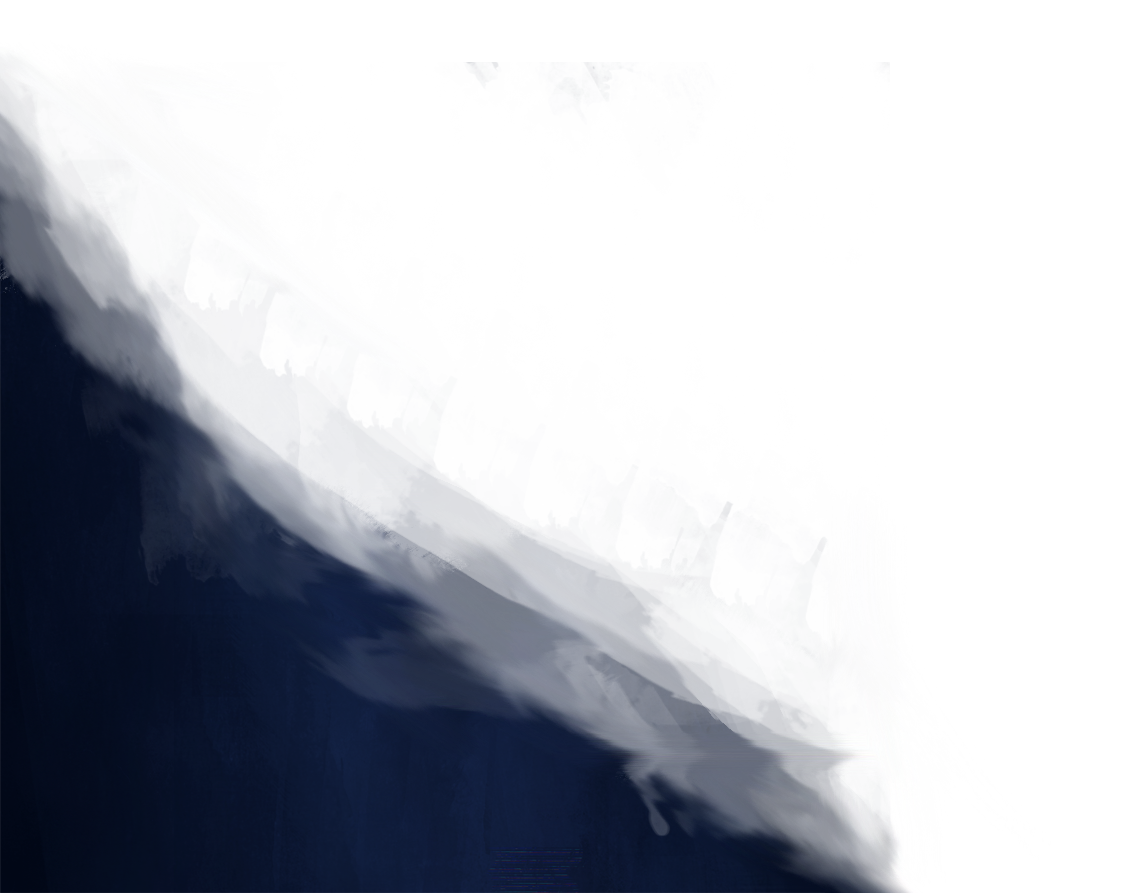
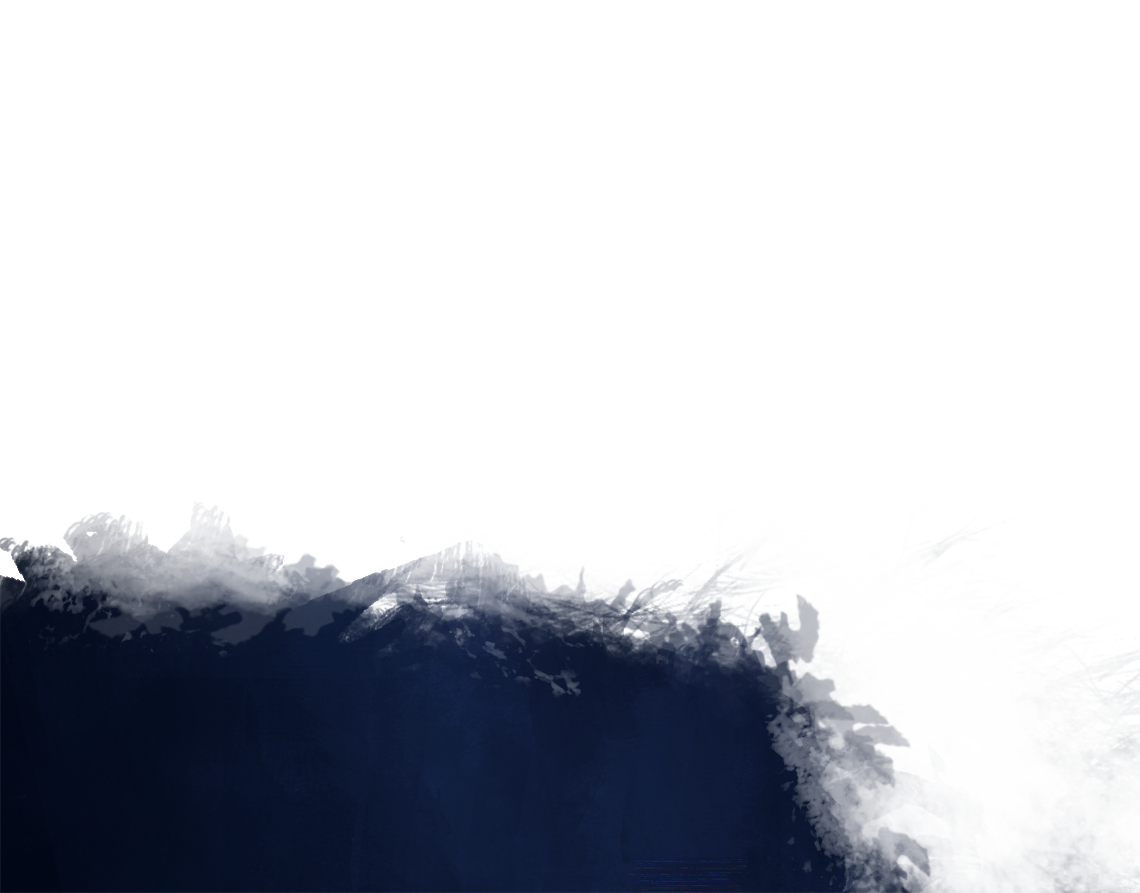
more intuitive back and reset on whiteboard

Changed region(s): [[0.0, 0.0907, 0.8596, 1.0], [0.8904, 0.9373, 1.0, 1.0], [0.9825, 0.8163, 1.0, 0.8466]]

diff --git a/src/Whiteboard.tsx b/src/Whiteboard.tsx
@@ -178,39 +178,60 @@ export default function Whiteboard({ images = [], sections = [] }: Props) {
         ))}
       </div>
 
-      <button
-        type="button"
-        aria-label="Reset view"
-        onPointerDown={e => e.stopPropagation()}
-        onClick={resetCamera}
+      <div
         style={{
-          ...resetButtonStyle,
-          left: RETURN_WIDTH * 0.55 * uiScale,
-          bottom: RETURN_WIDTH * 0.02 * uiScale,
+          position: 'fixed',
+          bottom: 0,
+          left: 0,
+          width: RETURN_WIDTH * uiScale * 1.15,
+          height: RETURN_WIDTH * uiScale * 0.62,
+          zIndex: 100,
+          pointerEvents: 'none',
         }}
       >
-        <img
-          src={`${import.meta.env.BASE_URL}images/common/zoom.svg`}
-          alt=""
-          draggable={false}
-          style={{ display: 'block', width: 48 * uiScale, height: 48 * uiScale }}
-        />
-      </button>
-
-      <button
-        type="button"
-        aria-label="Back to artwork"
-        onPointerDown={e => e.stopPropagation()}
-        onClick={() => navigate('/artwork/digital')}
-        style={returnButtonStyle}
-      >
+        {/* Stretched painted navy corner used as the backing texture. */}
         <img
           src={`${import.meta.env.BASE_URL}images/common/whiteboard_return.png`}
           alt=""
           draggable={false}
-          style={{ display: 'block', width: RETURN_WIDTH * uiScale * 0.70, height: 'auto' }}
+          style={{
+            position: 'absolute',
+            bottom: 0,
+            left: 0,
+            width: '100%',
+            height: '100%',
+            display: 'block',
+          }}
         />
-      </button>
+        <button
+          type="button"
+          aria-label="Back to artwork"
+          onPointerDown={e => e.stopPropagation()}
+          onClick={() => navigate('/artwork/digital')}
+          style={{
+            ...cornerTextButtonStyle,
+            left: 22 * uiScale,
+            bottom: 20 * uiScale,
+            fontSize: 20 * uiScale,
+          }}
+        >
+          Back
+        </button>
+        <button
+          type="button"
+          aria-label="Reset view"
+          onPointerDown={e => e.stopPropagation()}
+          onClick={resetCamera}
+          style={{
+            ...cornerTextButtonStyle,
+            left: RETURN_WIDTH * uiScale * 0.5,
+            bottom: 20 * uiScale,
+            fontSize: 20 * uiScale,
+          }}
+        >
+          Reset
+        </button>
+      </div>
     </div>
   )
 }
@@ -286,30 +307,21 @@ function SectionGroup({ spec }: { spec: SectionSpec }) {
   )
 }
 
-const resetButtonStyle: React.CSSProperties = {
-  position: 'fixed',
+// Text buttons ("BACK" / "RESET") layered over the navy corner texture.
+// Uses the same color, font, spacing, and casing as the top navigation bar.
+const cornerTextButtonStyle: React.CSSProperties = {
+  position: 'absolute',
   background: 'none',
   border: 'none',
   padding: 0,
+  margin: 0,
   cursor: 'pointer',
+  pointerEvents: 'auto',
+  color: '#c4d3ff',
+  fontFamily: "'Libra Serif Modern', ui-serif, Georgia, 'Times New Roman', Times, serif",
+  letterSpacing: '0.03em',
+  textTransform: 'uppercase',
+  lineHeight: 1,
+  textShadow: '0 1px 3px rgba(0,0,0,0.45)',
   zIndex: 101,
-}
-
-// Clip the return button to its visible navy triangle so its click region
-// matches the artwork (the rest of the PNG is fully transparent). Percent-based
-// so it stays aligned at any scale. Traced from the image's opaque boundary.
-const RETURN_CLIP_PATH =
-  'polygon(0% 16%, 0% 100%, 81% 100%, 76% 90%, 72% 80%, 59% 70%, 48% 60%, 25% 50%, 17% 40%, 13% 30%, 7% 20%)'
-
-const returnButtonStyle: React.CSSProperties = {
-  position: 'fixed',
-  bottom: 0,
-  left: 0,
-  background: 'none',
-  border: 'none',
-  padding: 0,
-  display: 'block',
-  cursor: 'pointer',
-  clipPath: RETURN_CLIP_PATH,
-  zIndex: 100,
 }
